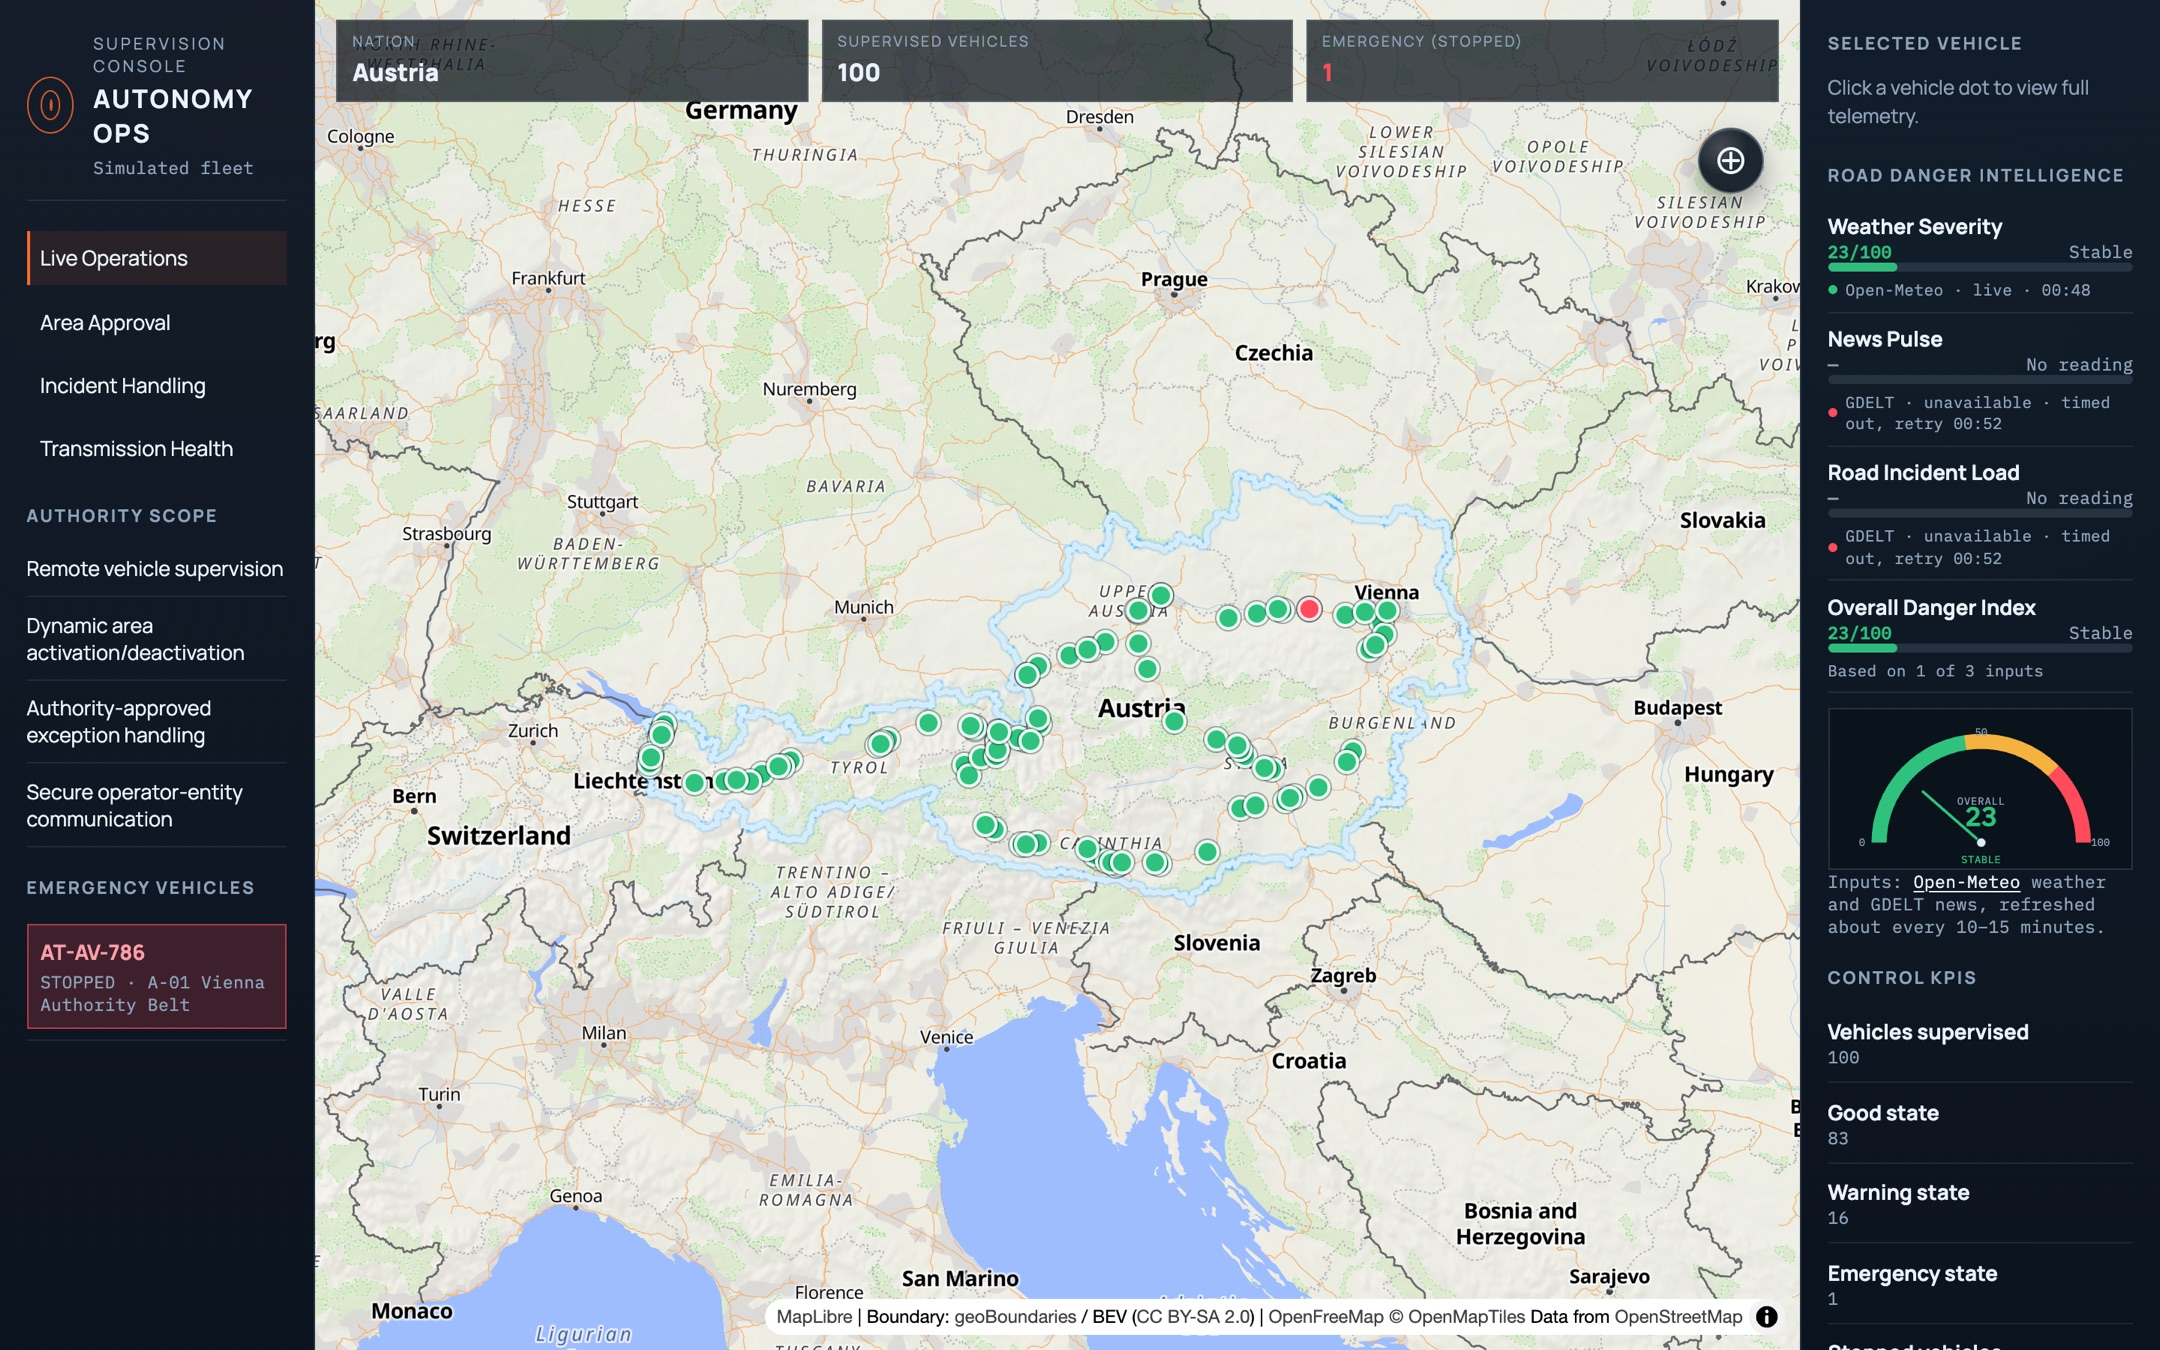
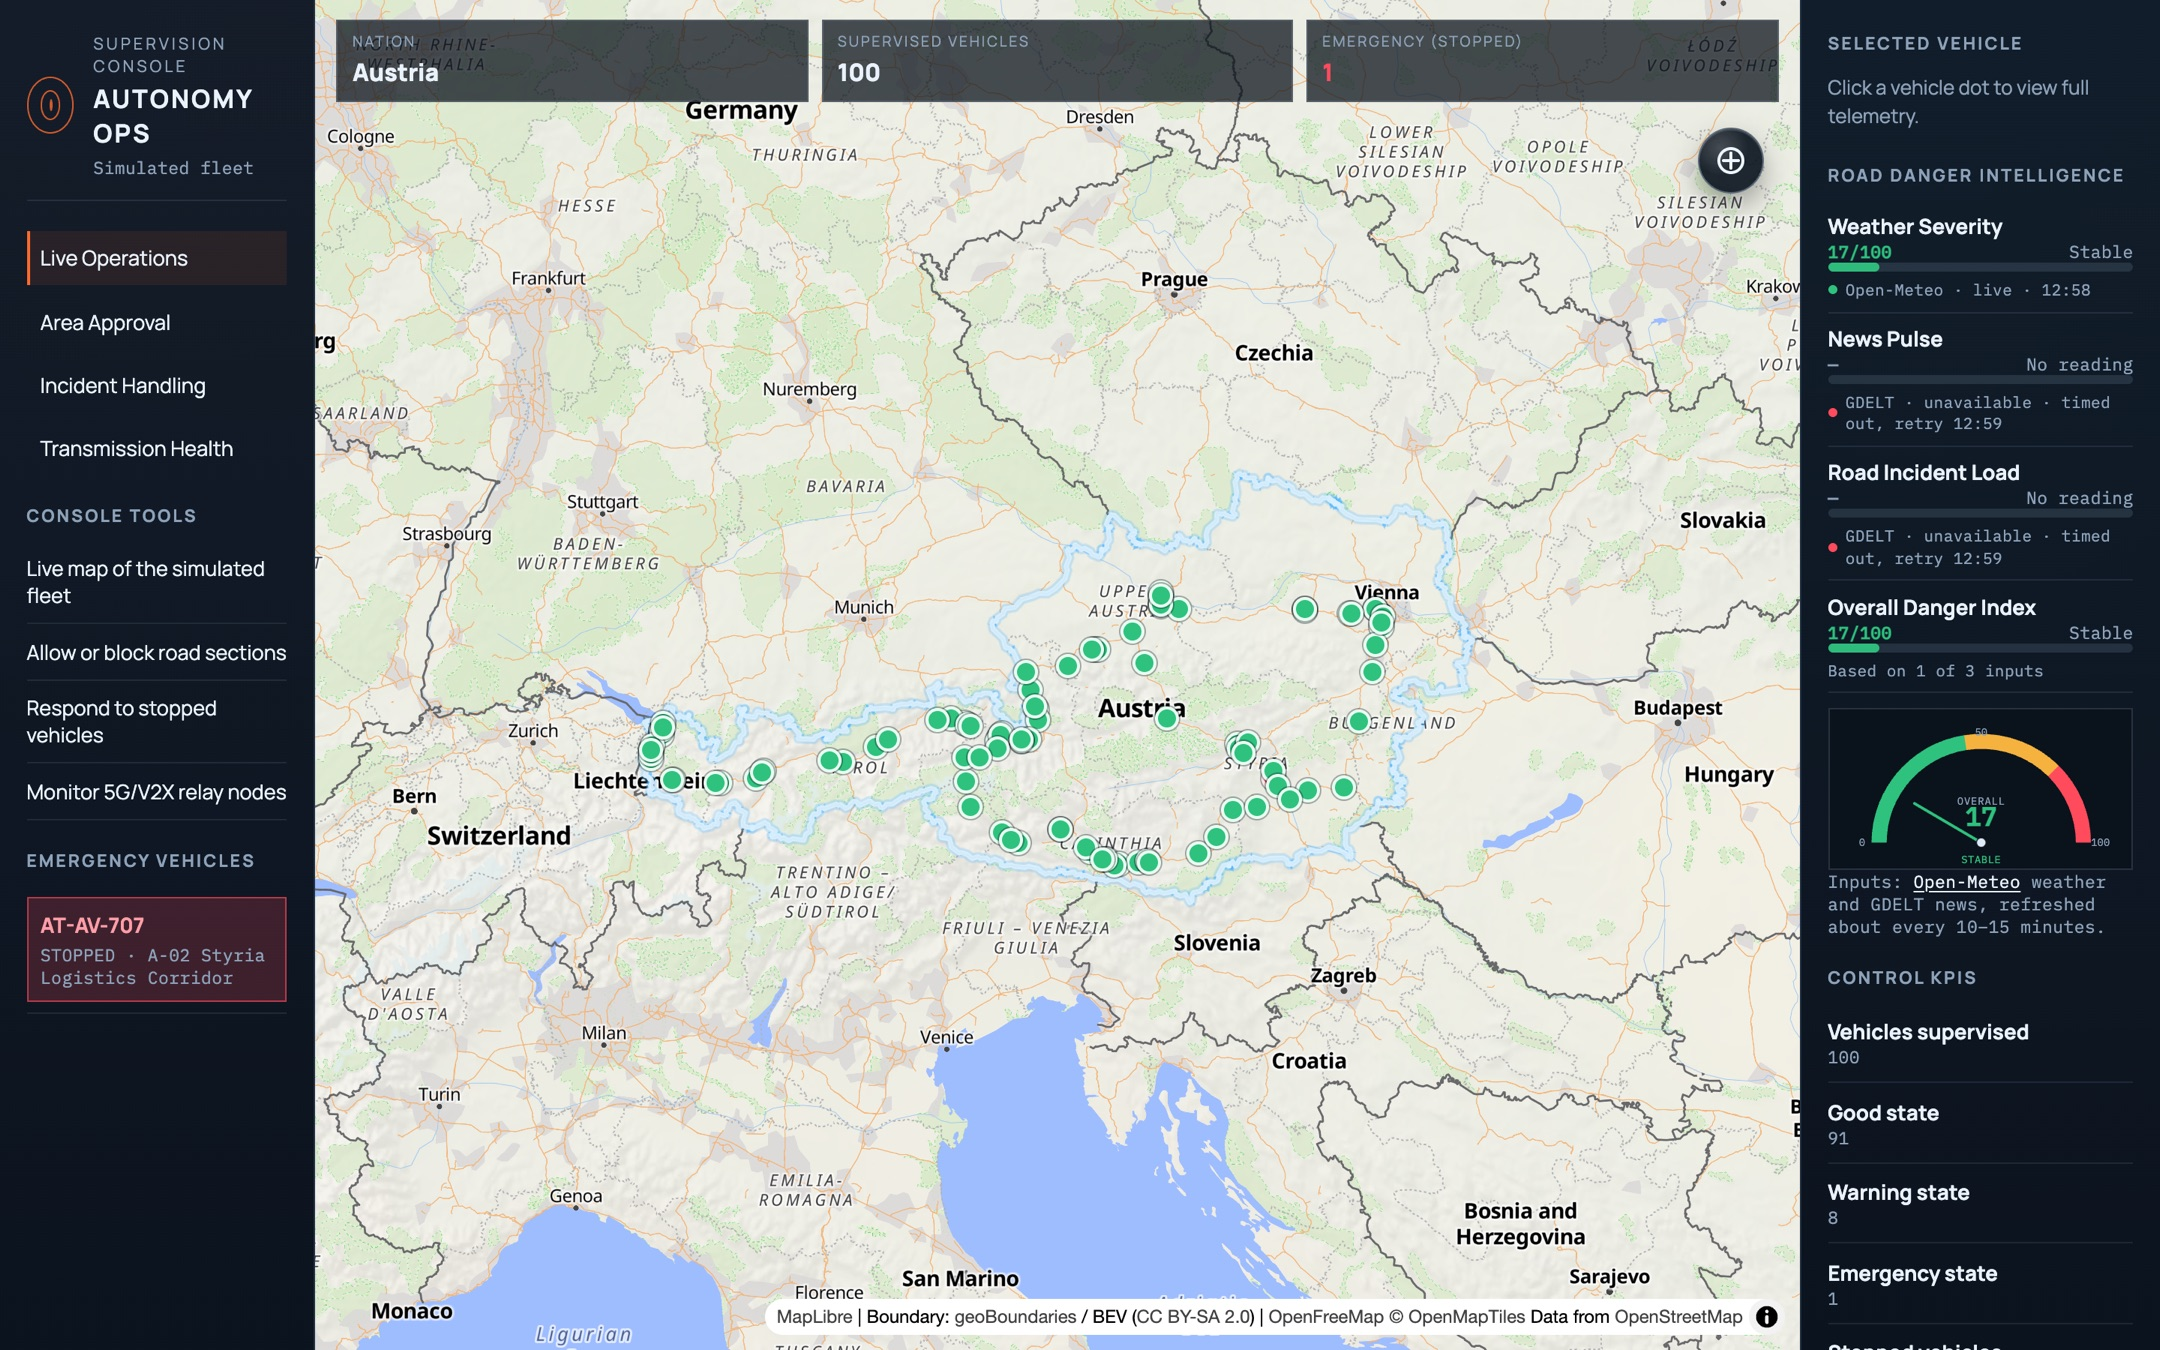
List the console's own tools in the sidebar
Replace the Authority Scope list with the four things the console does:
the fleet map, road approvals, stopped vehicles and relay nodes. Update
the README screenshot.

Changed region(s): [[0.0, 0.3733, 0.1551, 0.7778], [0.2792, 0.4356, 0.6514, 0.6533], [0.8995, 0.5911, 0.9306, 0.6222]]

diff --git a/public/index.html b/public/index.html
@@ -51,12 +51,12 @@
         </nav>
 
         <section class="rail-section live-ops-only">
-          <h2>Authority Scope</h2>
+          <h2>Console Tools</h2>
           <ul class="line-list">
-            <li>Remote vehicle supervision</li>
-            <li>Dynamic area activation/deactivation</li>
-            <li>Authority-approved exception handling</li>
-            <li>Secure operator-entity communication</li>
+            <li>Live map of the simulated fleet</li>
+            <li>Allow or block road sections</li>
+            <li>Respond to stopped vehicles</li>
+            <li>Monitor 5G/V2X relay nodes</li>
           </ul>
         </section>
 

diff --git a/CHANGELOG.md b/CHANGELOG.md
@@ -20,6 +20,7 @@ The format is based on [Keep a Changelog](https://keepachangelog.com/en/1.1.0/),
 - The road danger panel links to Open-Meteo and gives the refresh interval.
 - Transmission bandwidth is shown in Gbit/s.
 - ESLint 10 replaces ESLint 9, which is no longer supported.
+- The left sidebar lists what the console itself does (Console Tools) instead of an Authority Scope list.
 
 ## [1.0.0] - 2026-11-26
 
